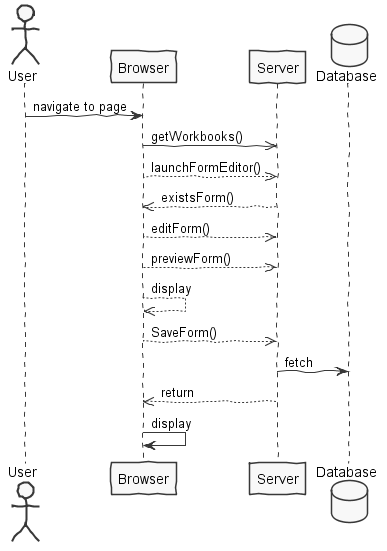
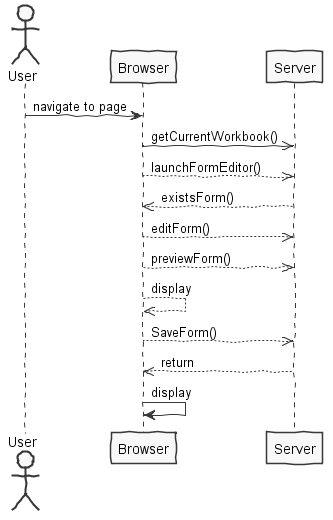
Lang 05.1 - Form Editor - Final adjustments of documentation

Changed region(s): [[0.0, 0.0, 0.991, 0.9846], [0.6306, 0.7692, 0.991, 0.9538], [0.3604, 0.6154, 0.3904, 0.6462]]

diff --git a/shared/src/main/java/pt/isep/nsheets/shared/lapr4/blue/s1/lang/n1150585/forms/FormsEditorController.java b/shared/src/main/java/pt/isep/nsheets/shared/lapr4/blue/s1/lang/n1150585/forms/FormsEditorController.java
@@ -41,7 +41,7 @@ public class FormsEditorController {
         teste.put("Isep5", "Linha5");
         return teste;*/
         
-       Form returnedForm = currentWorkbook.getForm();
+        Form returnedForm = currentWorkbook.getForm();
         Map<String, String> rows = returnedForm.getRows();
         return rows;
     }

diff --git a/docs/blue/s1150585/sp1/README.md b/docs/blue/s1150585/sp1/README.md
@@ -44,7 +44,7 @@ For this feature increment, since it is the first one to be developed in a new p
 
 
 ## 3.2 Form
-- It will be through the form’s view that the actions will be executed. There will be a button available that will allow to run an action one by one. For implementation reasons I couldn’t make two action running at the same time, hence why I chose to use checkboxes.
+- It will be through the form’s view that the actions will be executed. There will be a button available that will allow to run an action one by one (Future Implementations). For implementation reasons I couldn’t make two action running at the same time, hence why I chose to use checkboxes.
 
 - Each form line will be composed by two labels (one for the action name and another for the action instructions) and a checkbox.
 
@@ -79,7 +79,17 @@ The main idea for the "workflow" of this feature increment.
 
 ## 4.1. Tests
 
-*In this section you should describe the design of the tests that, as much as possibe, cover the requirements of the sprint.*
+**Domain Classes**
+
+- Form
+		pt.isep.nsheets.shared.lapr4.blue.s1.lang.n1150585.forms
+		TestForm
+
+
+- FormEditorController
+		pt.isep.nsheets.shared.lapr4.blue.s1.lang.n1150585.forms
+		TestFormEditorController
+
 
 ## 4.2. Requirements Realization
 
@@ -102,7 +112,7 @@ Notes:
 Notes:  
 - The diagram only depicts the less technical details of the scenario;  
 - For clarity reasons details such as the PersistenceContext or the RepositoryFactory are not depicted in this diagram.   
-- **FormWindow** is the class that previews the end Form look and allows the actions to be triggered;
+- **FormWindow** is the class that previews the end Form look;
 - **FormEditorController** is the *use case controller*;  
 - **Form** is form's domain class that will be associated with the current workbook
 
@@ -114,7 +124,6 @@ Notes:
 -	**FormEditorController** - makes the connection between the forms editor window, the form’s domain class and persistency.
 -	**FormView.java** -  Creates the forms preview window. It’s triggered through the editor or if a function is called.
 -	**FormView.ui** - XML scheme of the forms view.
--	**FormController** - Makes the connection between forms preview window, the form’s domain class and presistency. It is also responsible for the implementation of the actions triggered in the form.
 -	**Form** -  Domain. It contains every form’s row (name and action).
 
 
@@ -159,12 +168,13 @@ In the forms viewer I chose to use a single button to trigger the actions’ for
 
 The code for this sprint:  
 Project **server**
-- Controllers and Domain: **pt.isep.nsheets.server.lapr4.blue.s1.lang.n1150585.forms**    
+- Controllers and Domain: **pt.isep.nsheets.shared.lapr4.blue.s1.lang.n1150585.forms**    
 
 
 
 Project **NShests**
 - Windows Creation: **pt.isep.nsheets.client.lapr4.blue.s1.s1150585.formsEditor**
+**pt.isep.nsheets.client.lapr4.blue.s1.s1150585.forms**
 
 
 # 6. Integration/Demonstration
@@ -175,6 +185,7 @@ My contribution to the team consisted essentially in sharing my knowledge regard
 	-https://material.io/tools/icons/?style=baseline
 	-https://gwtmaterialdesign.github.io/gwt-material-demo/2.0-SNAPSHOT/#window
 
+The form function isn't called through the macros as asked on the problem statement. I've had some difficulties on the implementation. I've done LPROG last year, for that reason, had some difficulty understanding that part of the Use Case.
 
 Furthermore, I tried my best to integrate my Erasmus teammates. I have also helped installing Maven and all the tools needed to develop this application.
 
@@ -185,4 +196,18 @@ Lastly, I highlight the fact that I was dependent on other functionalities, main
 ----------------------------------------------------------------------------------------------------------------
 # 8. Work Log
 
-Commits:
+[Lang05.1 - Forms Editor Documentation (In Development.](https://bitbucket.org/lei-isep/lapr4-18-2dl/commits/b4c790c3aabcbec8735909b782ca6b2505c600e0)
+
+[Lang05.1 - Partial implementation of the forms editor GUI.](https://bitbucket.org/lei-isep/lapr4-18-2dl/commits/9c53bce6654b4566565b1ad448a1bf61f3826c89)
+
+[Lang05.1 - Create Forms UI and Controller (Partial).](https://bitbucket.org/lei-isep/lapr4-18-2dl/commits/36f92fbd3a895471a7714f215d9c9179634b2836)
+
+[Lang 05.1 - Form Editor - UI](https://bitbucket.org/lei-isep/lapr4-18-2dl/commits/4ddc94f84a10f0b7bf2bea5008294cc62ad127ec)
+
+[Lang 05.1 - Form Editor - Display the form by TextBox.](https://bitbucket.org/lei-isep/lapr4-18-2dl/commits/c5479372b10f39809e7c0157b1dd6937720fb350)
+
+[Lang 05.1 - Done for now. I can't call the created form with "FORM" function because the form itself is not associated with the current workbook. Waiting for Core01.1.](https://bitbucket.org/lei-isep/lapr4-18-2dl/commits/50157dbfe181b7c8c108dfeff63aba94a572f1e2)
+
+[Lang 05.1 - Form Editor Testes](https://bitbucket.org/lei-isep/lapr4-18-2dl/commits/24f4b58040d99873893fd13e9c8d65b76eebb5ea)
+
+[Lang 05.1 - Documentation](https://bitbucket.org/lei-isep/lapr4-18-2dl/commits/24f4b58040d99873893fd13e9c8d65b76eebb5ea)
